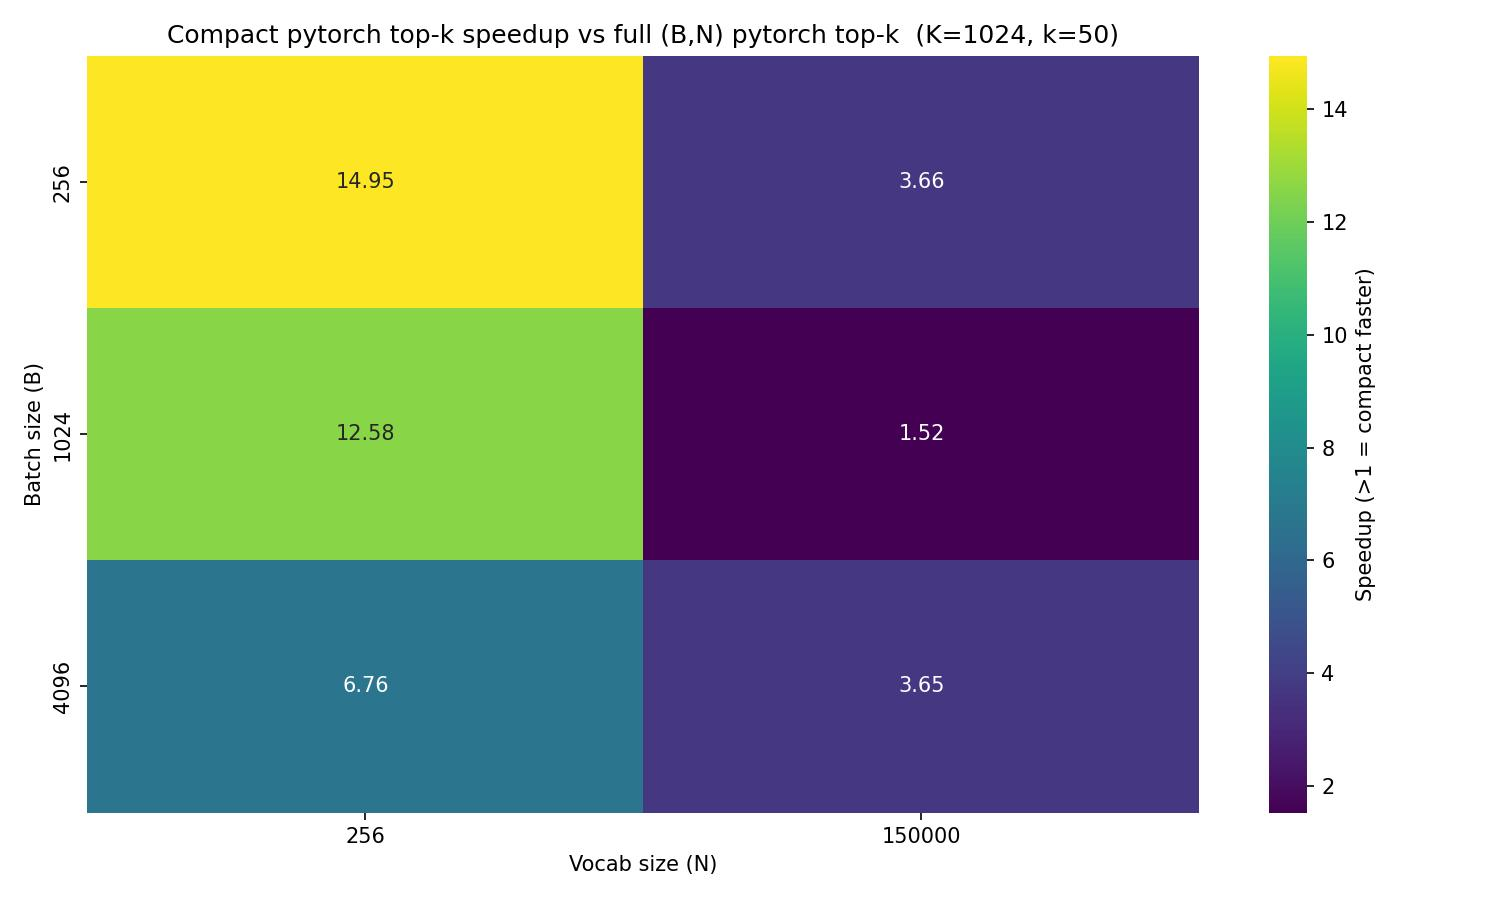
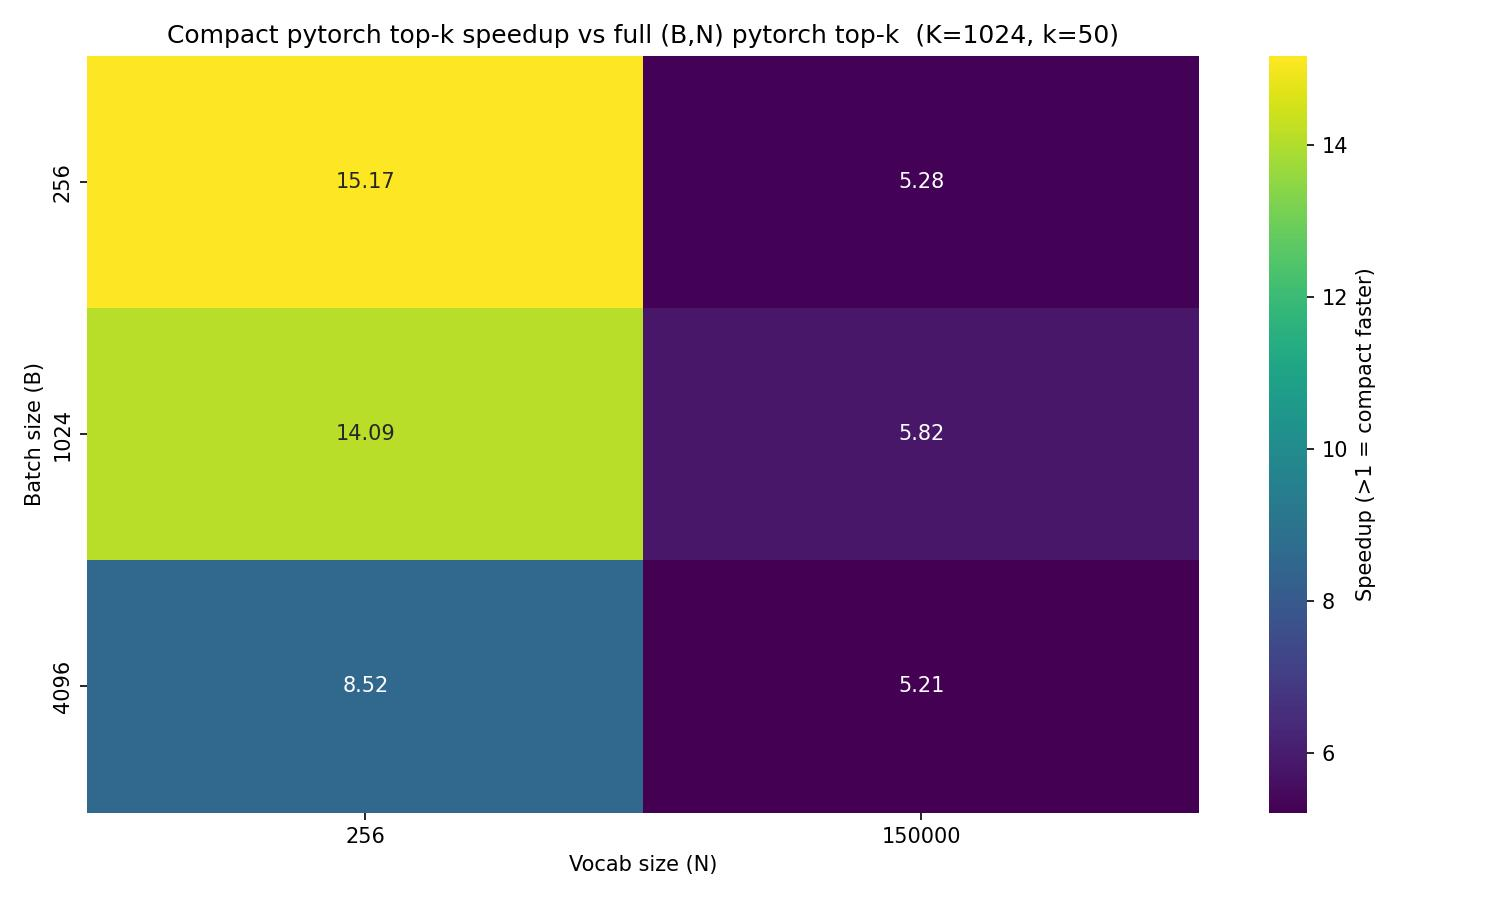
Change kernels to be bf16

diff --git a/rectokens/kernels/constrained_node_transition.py b/rectokens/kernels/constrained_node_transition.py
@@ -409,7 +409,7 @@ def _fused_linear_constrained_node_transition_op(
     bias_val = bias_val.contiguous()
 
     corrected_logits = torch.full(
-        (B, N), float("-inf"), dtype=torch.float32, device=a.device
+        (B, N), float("-inf"), dtype=torch.bfloat16, device=a.device
     )
     next_node = cur_node.new_full((B, max_branches), -1)
     valid_idxs = cur_node.new_full((B, max_branches), -1)
@@ -537,7 +537,7 @@ def _fused_sparse_linear_constrained_node_transition_kernel(
             corrected_logits_ptr
             + offs_B * corrected_logits_stride_B
             + col_k * corrected_logits_stride_N,
-            logit_k,
+            logit_k.to(tl.bfloat16),
             mask=c_mask,
         )
         _store_branch_outputs(
@@ -817,7 +817,7 @@ def _fused_linear_constrained_node_transition_topk_op(
     valid_idxs = cur_node.new_full((B, max_branches), -1)
     # Pass 1: compute per-branch logits into a [B, max_branches] scratch buffer.
     branch_logits = torch.full(
-        (B, max_branches), float("-inf"), dtype=torch.float32, device=a.device
+        (B, max_branches), float("-inf"), dtype=torch.bfloat16, device=a.device
     )
 
     grid = lambda meta: (
@@ -946,6 +946,6 @@ def _fused_sparse_linear_constrained_node_transition_topk_kernel(
     )
     tl.store(
         branch_logits_ptr + offs_B[:, None] * max_branches + offs_BR[None, :],
-        tl.where(branch_valid, logits, float("-inf")),
+        tl.where(branch_valid, logits, float("-inf")).to(tl.bfloat16),
         mask=store_mask,
     )

diff --git a/examples/scripts/benchmark/benchmark_fused_sample.py b/examples/scripts/benchmark/benchmark_fused_sample.py
@@ -119,8 +119,8 @@ def benchmark_grid(B_vals, N_vals, algorithms, sparsity, k_top, diverse_nodes=Fa
                 cur_node = torch.zeros(B, dtype=torch.long, device=DEVICE)
                 step = 0
 
-            a = torch.randn(B, K, device=DEVICE)
-            weight = torch.randn(N, K, device=DEVICE)
+            a = torch.randn(B, K, device=DEVICE, dtype=torch.bfloat16)
+            weight = torch.randn(N, K, device=DEVICE, dtype=torch.bfloat16)
 
             cs = ConstraintState(step=step, trie=csr, cur_node=cur_node)
 
